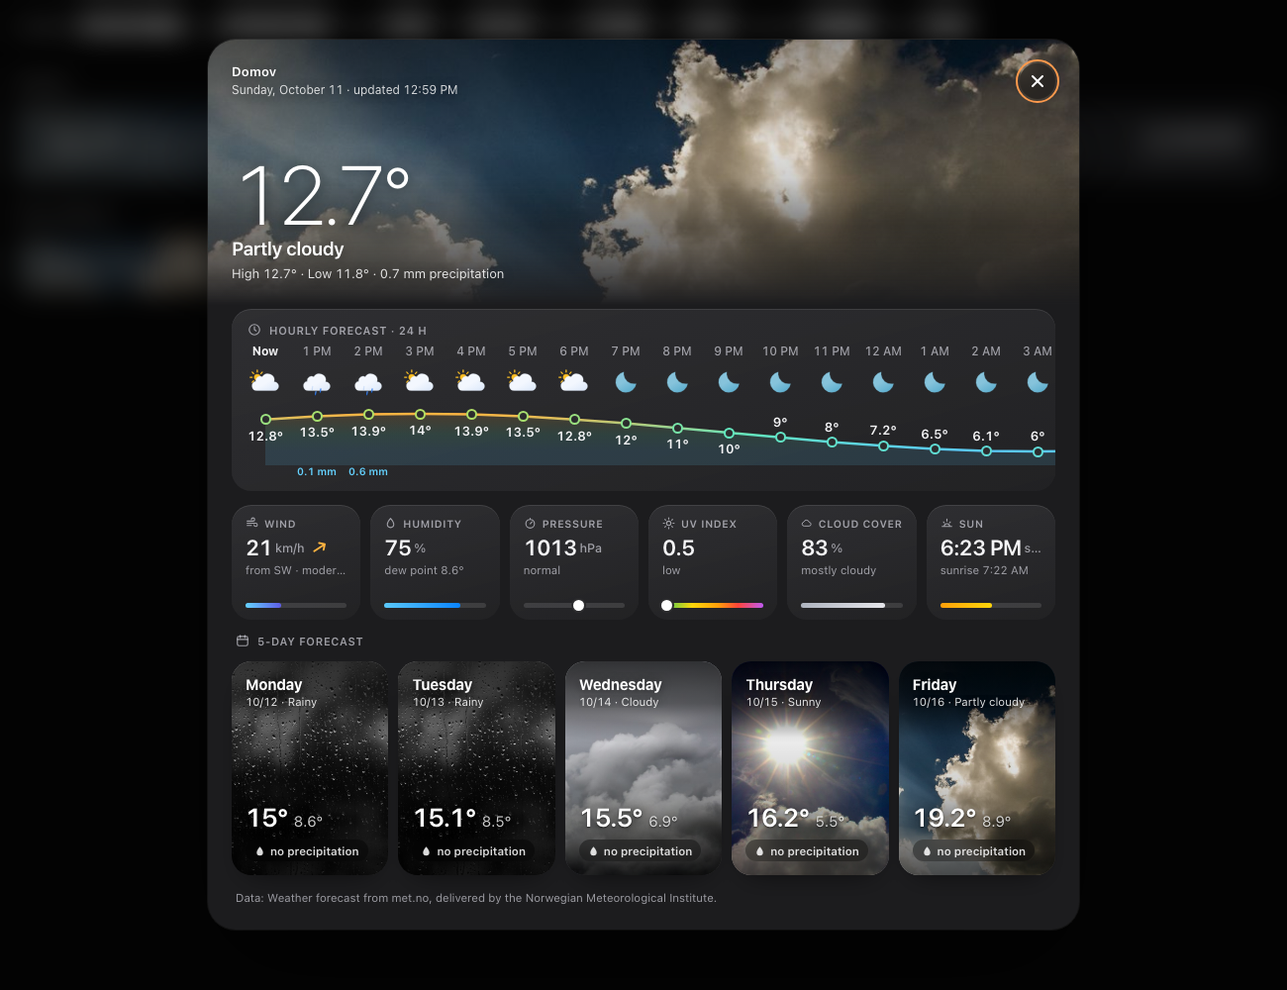
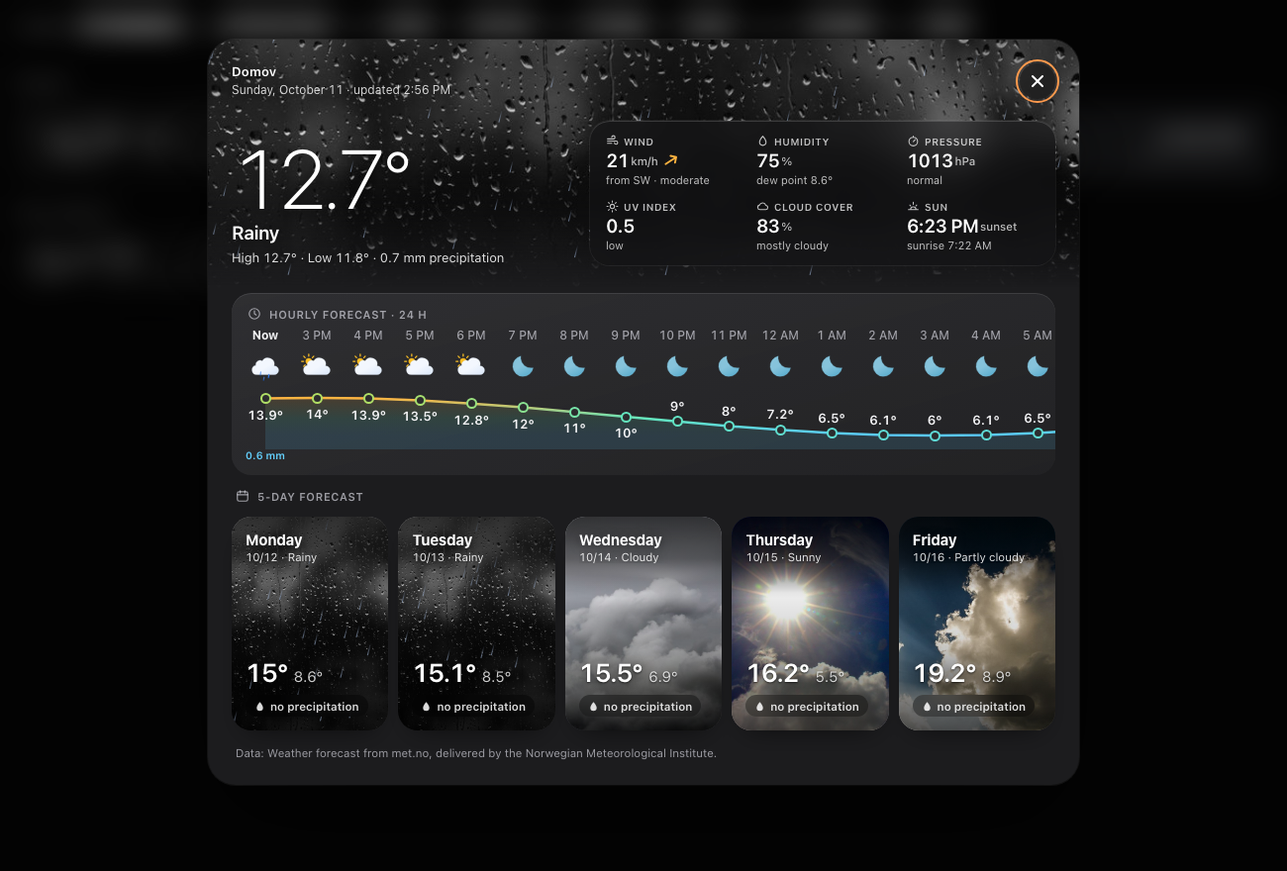
Detail: current details in the hero, weather effects in the dialog
- Desktop/tablet: wind, humidity, pressure, UV, cloud cover and sun move
  into the hero as a frosted 3x2 box next to the temperature; the hero is
  lower, so the hourly forecast sits higher and the days follow it.
- Phone: the details box comes right after the hero, above the hourly forecast.
- Rain / snow / lightning animation in the hero and in each forecast day
  (per that day's condition), honouring the `effects` option.
- The dialog skips re-rendering identical content, so HA state pushes no
  longer restart the animations.
- Light theme: photo mask stays solid longer so the hero text stays readable.
- Drop the small bars under the detail values (no room in the compact box).

diff --git a/dist/weather-bar-card.js b/dist/weather-bar-card.js
@@ -10,7 +10,7 @@
  * https://github.com/eMalinos/weather-bar-card
  */
 
-const VERSION = '1.1.1';
+const VERSION = '1.2.0';
 
 // Folder of this module, e.g. /hacsfiles/weather-bar-card/ — photos and icons sit next to it.
 const ASSET_BASE = new URL('./', import.meta.url).href;
@@ -155,9 +155,9 @@ export function buildDays(forecast, count, now = new Date(), fromUnit = '°C', t
   return { today, days };
 }
 
-// Deterministic particles so re-renders don't jump.
-export function particles(fx, compact) {
-  let s = 11;
+// Deterministic particles so re-renders don't jump; `seed` varies the pattern between neighbours.
+export function particles(fx, compact, seed = 11) {
+  let s = seed;
   const r = () => (s = (s * 9301 + 49297) % 233280) / 233280;
   const out = [];
   const scale = compact ? 0.5 : 1;
@@ -172,6 +172,21 @@ export function particles(fx, compact) {
   if (fx.flash) out.push('<i class="flash"></i>');
   return out.join('');
 }
+
+// Rain / snow / lightning layer, shared by the bar and the detail dialog.
+// --fx-fall = how far particles fall; set it to the height of the box they cover.
+const FX_STYLE = `
+.fx { position: absolute; inset: 0; pointer-events: none; overflow: hidden; }
+.drop { position: absolute; top: -26px; width: 1.2px; height: 13px; border-radius: 1px;
+  background: linear-gradient(rgba(190,215,255,0), rgba(190,215,255,.55)); animation: wb-rain linear infinite; }
+.drop.heavy { width: 1.6px; height: 18px; background: linear-gradient(rgba(190,215,255,0), rgba(190,215,255,.75)); }
+.flake { position: absolute; top: -12px; border-radius: 50%; background: rgba(255,255,255,.9); animation: wb-snow linear infinite; }
+.flash { position: absolute; inset: 0; background: #fff; opacity: 0; animation: wb-flash 6s ease-in-out infinite; }
+@keyframes wb-rain { from { transform: translate3d(0,0,0) rotate(14deg); } to { transform: translate3d(-34px,var(--fx-fall,240px),0) rotate(14deg); } }
+@keyframes wb-snow { 0% { transform: translate3d(0,-10px,0); } 50% { transform: translate3d(10px,calc(var(--fx-fall,240px) * .375),0); } 100% { transform: translate3d(-6px,calc(var(--fx-fall,240px) * .875),0); } }
+@keyframes wb-flash { 0%,88%,100% { opacity: 0; } 89% { opacity: .38; } 90.5% { opacity: .04; } 92% { opacity: .28; } 95% { opacity: 0; } }
+@media (prefers-reduced-motion: reduce) { .drop, .flake, .flash { animation: none; } .flash { display: none; } }
+`;
 
 // ---------------------------------------------------------------------------
 // Detail dialog (click on the bar): hero photo, 24 h hourly curve, current
@@ -285,7 +300,9 @@ const DETAIL_STYLE = `
   background: rgba(0,0,0,.32); backdrop-filter: blur(12px); -webkit-backdrop-filter: blur(12px); display: flex; align-items: center; justify-content: center; }
 .close:hover { background: rgba(0,0,0,.5); }
 .close:focus-visible { outline: 2px solid #FF9A4D; outline-offset: 2px; }
-.big { margin-top: auto; display: flex; flex-direction: column; gap: 6px; min-width: 0; }
+.low { margin-top: auto; display: flex; align-items: flex-end; justify-content: space-between; gap: 24px; }
+.big { display: flex; flex-direction: column; gap: 6px; min-width: 0; }
+.hero .fx { --fx-fall: var(--d-hero-h); }
 .bt { font-size: var(--d-temp); font-weight: 200; line-height: .9; letter-spacing: -.045em; }
 .bl { font-size: 19px; font-weight: 600; letter-spacing: -.01em; }
 .bs { font-size: 13px; color: rgba(255,255,255,.86); }
@@ -308,23 +325,18 @@ const DETAIL_STYLE = `
 .v { position: absolute; left: 0; right: 0; text-align: center; font-size: 13px; font-weight: 600; }
 .r { height: 16px; font-size: 10.5px; font-weight: 600; color: var(--d-blue); white-space: nowrap; }
 
-.tiles { display: grid; grid-template-columns: repeat(var(--d-tiles), minmax(0, 1fr)); gap: 10px; }
-.tile { min-width: 0; height: 116px; padding: 12px 14px; display: flex; flex-direction: column; gap: 3px; }
-.tl { display: flex; align-items: center; gap: 6px; font-size: 10.5px; font-weight: 600; letter-spacing: .06em; text-transform: uppercase; color: var(--d-fg2); white-space: nowrap; }
-.tv { display: flex; align-items: center; gap: 6px; margin-top: 2px; font-size: 22px; font-weight: 600; letter-spacing: -.02em; white-space: nowrap; overflow: hidden; }
-.tv small { min-width: 0; overflow: hidden; text-overflow: ellipsis; font-size: 12.5px; font-weight: 500; color: var(--d-fg2); margin-left: -3px; letter-spacing: 0; }
+/* Current details: one 3-column box; on desktop it sits in the hero as frosted glass next to the temperature. */
+.tiles { display: grid; grid-template-columns: repeat(var(--d-tiles), minmax(0, 1fr)); row-gap: 14px; column-gap: 10px; padding: 14px;
+  border-radius: 20px; background: var(--d-tile); box-shadow: var(--d-tile-sh); }
+.hero .tiles { flex: 0 1 470px; min-width: 0; column-gap: 18px; padding: 14px 16px; color: #fff; text-shadow: none; --d-fg2: rgba(255,255,255,.74);
+  background: rgba(20,20,24,.34); backdrop-filter: blur(16px) saturate(1.3); -webkit-backdrop-filter: blur(16px) saturate(1.3);
+  box-shadow: inset 0 1px 0 rgba(255,255,255,.16), 0 0 0 1px rgba(255,255,255,.06); }
+.tile { min-width: 0; display: flex; flex-direction: column; gap: 2px; }
+.tl { display: flex; align-items: center; gap: 5px; font-size: 10px; font-weight: 600; letter-spacing: .05em; text-transform: uppercase; color: var(--d-fg2); white-space: nowrap; }
+.tv { display: flex; align-items: center; gap: 4px; font-size: 19px; font-weight: 600; letter-spacing: -.02em; white-space: nowrap; overflow: hidden; }
+.tv small { min-width: 0; overflow: hidden; text-overflow: ellipsis; font-size: 11.5px; font-weight: 500; color: var(--d-fg2); margin-left: -2px; letter-spacing: 0; }
 .tv svg { flex: none; }
-.ts { font-size: 11.5px; color: var(--d-fg2); white-space: nowrap; overflow: hidden; text-overflow: ellipsis; }
-.tb { margin-top: auto; position: relative; height: 5px; border-radius: 3px; background: var(--d-track); }
-.tb i { display: block; height: 100%; border-radius: 3px; }
-.tb b { position: absolute; top: -3px; width: 11px; height: 11px; margin-left: -5.5px; border-radius: 6px; background: var(--d-marker); box-shadow: 0 0 0 2px var(--d-tile-solid); }
-.sheet .tiles { grid-template-columns: repeat(3, minmax(0, 1fr)); row-gap: 14px; column-gap: 10px; padding: 14px; border-radius: 20px; background: var(--d-tile); box-shadow: var(--d-tile-sh); }
-.sheet .tile { height: auto; padding: 0; gap: 2px; background: none; box-shadow: none; }
-.sheet .tl { font-size: 10px; letter-spacing: .05em; gap: 5px; }
-.sheet .tv { font-size: 19px; gap: 4px; margin: 0; }
-.sheet .tv small { font-size: 11.5px; margin-left: -2px; }
-.sheet .ts { font-size: 11px; }
-.sheet .tb { display: none; }
+.ts { font-size: 11px; color: var(--d-fg2); white-space: nowrap; overflow: hidden; text-overflow: ellipsis; }
 
 .dhead { padding: 0 4px; }
 .days { display: grid; grid-template-columns: repeat(var(--d-days), minmax(0, 1fr)); gap: 10px; }
@@ -353,26 +365,28 @@ const DETAIL_STYLE = `
 .sheet .dt span { font-size: 14px; }
 
 .foot { font-size: 11.5px; color: var(--d-fg2); padding: 2px 4px; overflow: hidden; text-overflow: ellipsis; white-space: nowrap; }
-`;
+.dc .fx { --fx-fall: 230px; }
+.sheet .dc .fx { --fx-fall: 90px; }
+${FX_STYLE}`;
 
 const DROP = '<svg width="11" height="11" viewBox="0 0 24 24" fill="currentColor" aria-hidden="true"><path d="M12 2.5s7 7.6 7 12.7a7 7 0 0 1-14 0C5 10.1 12 2.5 12 2.5z"/></svg>';
 
 const DETAIL_THEME = {
   dark: {
     '--d-surface': '#1C1C1E', '--d-fg': '#F5F5F7', '--d-fg2': 'rgba(235,235,245,.62)', '--d-tile': 'linear-gradient(165deg, rgba(62,62,66,.55), rgba(36,36,38,.7))',
-    '--d-tile-solid': '#2C2C2E', '--d-tile-sh': 'inset 0 1px 0 rgba(255,255,255,.1)', '--d-track': 'rgba(255,255,255,.12)', '--d-dot': '#2C2C2E',
-    '--d-blue': '#64D2FF', '--d-marker': '#FFFFFF', '--d-day-sh': '0 12px 28px -16px rgba(0,0,0,.7)',
+    '--d-tile-sh': 'inset 0 1px 0 rgba(255,255,255,.1)', '--d-dot': '#2C2C2E',
+    '--d-blue': '#64D2FF', '--d-day-sh': '0 12px 28px -16px rgba(0,0,0,.7)',
     '--d-scrim': 'rgba(0,0,0,.55)', '--d-ring': 'rgba(255,255,255,.08)', '--d-mask': 'linear-gradient(180deg, #000 0%, #000 52%, rgba(0,0,0,.5) 78%, transparent 100%)',
     '--d-hero-scrim': 'linear-gradient(180deg, rgba(0,0,0,.42) 0%, rgba(0,0,0,.12) 40%, rgba(0,0,0,.28) 70%, transparent 100%)',
   },
   light: {
     '--d-surface': '#F2F2F7', '--d-fg': '#1C1C1E', '--d-fg2': 'rgba(60,60,67,.7)', '--d-tile': '#FFFFFF',
-    '--d-tile-solid': '#FFFFFF', '--d-tile-sh': '0 1px 2px rgba(0,0,0,.04), 0 8px 24px -14px rgba(0,0,0,.18)', '--d-track': 'rgba(0,0,0,.08)', '--d-dot': '#FFFFFF',
-    '--d-blue': '#0062CC', '--d-marker': '#1C1C1E', '--d-day-sh': '0 10px 24px -16px rgba(0,0,0,.4)',
+    '--d-tile-sh': '0 1px 2px rgba(0,0,0,.04), 0 8px 24px -14px rgba(0,0,0,.18)', '--d-dot': '#FFFFFF',
+    '--d-blue': '#0062CC', '--d-day-sh': '0 10px 24px -16px rgba(0,0,0,.4)',
     '--d-scrim': 'rgba(30,30,35,.32)', '--d-ring': 'rgba(0,0,0,.06)',
     // Light surface: photo stays solid under the white text and fades out in small steps below it.
-    '--d-mask': 'linear-gradient(180deg, #000 0%, #000 60%, rgba(0,0,0,.92) 66%, rgba(0,0,0,.78) 72%, rgba(0,0,0,.58) 78%, rgba(0,0,0,.38) 84%, rgba(0,0,0,.2) 90%, rgba(0,0,0,.07) 96%, transparent 100%)',
-    '--d-hero-scrim': 'linear-gradient(180deg, rgba(0,0,0,.42) 0%, rgba(0,0,0,.12) 32%, rgba(0,0,0,.2) 50%, rgba(0,0,0,.12) 62%, rgba(0,0,0,.04) 74%, transparent 84%)',
+    '--d-mask': 'linear-gradient(180deg, #000 0%, #000 78%, rgba(0,0,0,.9) 82%, rgba(0,0,0,.72) 86%, rgba(0,0,0,.5) 90%, rgba(0,0,0,.28) 94%, rgba(0,0,0,.1) 97.5%, transparent 100%)',
+    '--d-hero-scrim': 'linear-gradient(180deg, rgba(0,0,0,.42) 0%, rgba(0,0,0,.12) 32%, rgba(0,0,0,.22) 55%, rgba(0,0,0,.2) 72%, rgba(0,0,0,.06) 86%, transparent 94%)',
   },
 };
 
@@ -389,16 +403,7 @@ ha-card { position: relative; overflow: hidden; border: none; color: var(--wb-fg
   opacity: 0; transition: opacity 1.1s cubic-bezier(.4,0,.2,1); }
 .photo::after { content: ""; position: absolute; inset: 0; background: linear-gradient(90deg, rgba(0,0,0,.38), rgba(0,0,0,.18)); }
 .photo.on { opacity: 1; }
-.fx { position: absolute; inset: 0; pointer-events: none; overflow: hidden; }
-.drop { position: absolute; top: -26px; width: 1.2px; height: 13px; border-radius: 1px;
-  background: linear-gradient(rgba(190,215,255,0), rgba(190,215,255,.55)); animation: wb-rain linear infinite; }
-.drop.heavy { width: 1.6px; height: 18px; background: linear-gradient(rgba(190,215,255,0), rgba(190,215,255,.75)); }
-.flake { position: absolute; top: -12px; border-radius: 50%; background: rgba(255,255,255,.9); animation: wb-snow linear infinite; }
-.flash { position: absolute; inset: 0; background: #fff; opacity: 0; animation: wb-flash 6s ease-in-out infinite; }
-@keyframes wb-rain { from { transform: translate3d(0,0,0) rotate(14deg); } to { transform: translate3d(-34px,240px,0) rotate(14deg); } }
-@keyframes wb-snow { 0% { transform: translate3d(0,-10px,0); } 50% { transform: translate3d(10px,90px,0); } 100% { transform: translate3d(-6px,210px,0); } }
-@keyframes wb-flash { 0%,88%,100% { opacity: 0; } 89% { opacity: .38; } 90.5% { opacity: .04; } 92% { opacity: .28; } 95% { opacity: 0; } }
-@media (prefers-reduced-motion: reduce) { .drop, .flake, .flash { animation: none; } .flash { display: none; } }
+${FX_STYLE}
 
 .row { position: relative; z-index: 1; display: flex; align-items: center; box-sizing: border-box; height: 76px; padding: 0 var(--wb-pad); }
 .now { flex: none; display: flex; align-items: center; gap: 12px; width: var(--wb-now-w); padding-right: 48px; box-sizing: border-box;
@@ -770,6 +775,7 @@ class WeatherBarCard extends (globalThis.HTMLElement ?? class {}) {
     window.addEventListener('keydown', this._onKey);
     window.addEventListener('resize', this._onWinResize);
     this._dlg = host;
+    this._dlgKey = undefined;
     document.body.appendChild(host);
     this._subscribeHourly();
     this._renderDetail();
@@ -829,38 +835,16 @@ class WeatherBarCard extends (globalThis.HTMLElement ?? class {}) {
     const iconPath = cfg.icon_path ?? imgBase;
     const photo = (k) => `background-image:url(&quot;${esc(cfg.images?.[k] ?? `${imgBase}${k}.jpg`)}&quot;);background-position:${FOCUS[k] ?? '50% 50%'}`;
     const punit = esc(a.precipitation_unit ?? 'mm');
-    const clamp = (v) => Math.max(0, Math.min(100, v)).toFixed(1);
 
     const vars = {
       ...DETAIL_THEME[dark ? 'dark' : 'light'],
       '--d-pad': sheet ? '16px' : '24px', '--d-temp': sheet ? '64px' : '84px',
-      '--d-hero-h': dark ? (sheet ? '232px' : '268px') : (sheet ? '290px' : '340px'),
-      '--d-hero-pb': dark ? (sheet ? '16px' : '24px') : (sheet ? '98px' : '122px'),
+      '--d-hero-h': dark ? (sheet ? '232px' : '252px') : (sheet ? '290px' : '300px'),
+      '--d-hero-pb': dark ? (sheet ? '16px' : '24px') : (sheet ? '98px' : '70px'),
     };
+    const fx = (condition, seed, compact) => (cfg.effects ? `<div class="fx">${particles(FX_FOR[condition] ?? {}, compact, seed)}</div>` : '');
 
-    // Hero
     const { today, days } = buildDays(this._forecast, 5, now, fromUnit, unit);
-    const temp = convertTemp(a.temperature, fromUnit, unit);
-    const heroSub = [];
-    if (today) {
-      heroSub.push(`${T.max} ${deg(convertTemp(today.temperature, fromUnit, unit))}`);
-      if (typeof today.templow === 'number') heroSub.push(`${T.min} ${deg(convertTemp(today.templow, fromUnit, unit))}`);
-      if (today.precipitation > 0) heroSub.push(`${nf.format(today.precipitation)} ${punit} ${T.precipToday}`);
-    }
-    const updated = new Date(st.last_updated ?? now);
-    const hero = `
-      <div class="hero"><div class="ph" style="${photo(photoKey(st.state, sun?.state))}"></div><div class="sc"></div>
-        <div class="in">
-          <div class="top">
-            <div><div class="loc">${esc(cfg.name ?? a.friendly_name ?? cfg.entity)}</div>
-              <div class="upd">${esc(cap(new Intl.DateTimeFormat(lang, { weekday: 'long', day: 'numeric', month: 'long' }).format(now)))} · ${T.updated} ${timeFmt.format(updated)}</div></div>
-            <button class="close" aria-label="${T.close}"><svg width="14" height="14" viewBox="0 0 14 14" aria-hidden="true"><path d="M2 2l10 10M12 2L2 12" stroke="currentColor" stroke-width="2" stroke-linecap="round"/></svg></button>
-          </div>
-          <div class="big"><div class="bt">${typeof temp === 'number' ? deg(temp) : '–'}</div>
-            <div class="bl">${esc(this._condText(st.state))}</div><div class="bs">${heroSub.join(' · ')}</div></div>
-        </div>
-      </div>`;
-
     // Hourly
     const H = buildHours(this._hourly, 24, now, fromUnit, unit);
     const hourly = !H.hours.length ? '' : `
@@ -881,8 +865,6 @@ class WeatherBarCard extends (globalThis.HTMLElement ?? class {}) {
       </section>`;
 
     // Current details
-    const bar = (pct, bg) => `<span class="tb"><i style="width:${clamp(pct)}%;background:${bg}"></i></span>`;
-    const mark = (pct, track) => `<span class="tb"${track ? ` style="background:${track}"` : ''}><b style="left:${clamp(pct)}%"></b></span>`;
     const tiles = [];
     if (typeof a.wind_speed === 'number') {
       const kmh = toKmh(a.wind_speed, a.wind_speed_unit);
@@ -890,38 +872,58 @@ class WeatherBarCard extends (globalThis.HTMLElement ?? class {}) {
       const arrow = typeof a.wind_bearing === 'number'
         ? `<svg width="18" height="18" viewBox="0 0 24 24" aria-hidden="true"><g transform="rotate(${a.wind_bearing} 12 12)"><path d="M12 3v17M6.5 14.5L12 20l5.5-5.5" fill="none" stroke="#FFB340" stroke-width="2.5" stroke-linecap="round" stroke-linejoin="round"/></g></svg>` : '';
       tiles.push(['wind', T.wind, `${nf.format(Math.round(a.wind_speed))}<small>${esc(a.wind_speed_unit ?? '')}</small>${arrow}`,
-        [dir && `${T.from} ${dir}`, T.windLv[level(kmh, [2, 12, 29, 50, 75])]].filter(Boolean).join(' · '), bar(kmh / 60 * 100, 'linear-gradient(90deg,#64D2FF,#5E5CE6)')]);
+        [dir && `${T.from} ${dir}`, T.windLv[level(kmh, [2, 12, 29, 50, 75])]].filter(Boolean).join(' · ')]);
     }
     if (typeof a.humidity === 'number') {
       tiles.push(['humidity', T.humidity, `${nf.format(Math.round(a.humidity))}<small>%</small>`,
-        typeof a.dew_point === 'number' ? `${T.dew} ${deg(convertTemp(a.dew_point, fromUnit, unit))}` : '', bar(a.humidity, 'linear-gradient(90deg,#5AC8FA,#0A84FF)')]);
+        typeof a.dew_point === 'number' ? `${T.dew} ${deg(convertTemp(a.dew_point, fromUnit, unit))}` : '']);
     }
     if (typeof a.pressure === 'number') {
       const hpa = toHpa(a.pressure, a.pressure_unit);
       tiles.push(['pressure', T.pressure, `${new Intl.NumberFormat(lang, { maximumFractionDigits: 2, useGrouping: false }).format(a.pressure_unit === 'hPa' || !a.pressure_unit ? Math.round(a.pressure) : a.pressure)}<small>${esc(a.pressure_unit ?? 'hPa')}</small>`,
-        T.pressLv[level(hpa, [1000, 1025])], mark((hpa - 970) / 80 * 100)]);
+        T.pressLv[level(hpa, [1000, 1025])]]);
     }
     if (typeof a.uv_index === 'number') {
       tiles.push(['uv', T.uv, nf.format(a.uv_index),
-        [T.uvLv[level(a.uv_index, [3, 6, 8, 11])], typeof today?.uv_index === 'number' && `${T.uvMax} ${nf.format(today.uv_index)}`].filter(Boolean).join(' · '),
-        mark(a.uv_index / 11 * 100, 'linear-gradient(90deg,#34C759,#FFD60A 30%,#FF9F0A 55%,#FF453A 75%,#BF5AF2)')]);
+        [T.uvLv[level(a.uv_index, [3, 6, 8, 11])], typeof today?.uv_index === 'number' && `${T.uvMax} ${nf.format(today.uv_index)}`].filter(Boolean).join(' · ')]);
     }
     if (typeof a.cloud_coverage === 'number') {
       tiles.push(['cloud', T.cloud, `${nf.format(Math.round(a.cloud_coverage))}<small>%</small>`,
-        T.cloudLv[level(a.cloud_coverage, [13, 38, 63, 88])], bar(a.cloud_coverage, 'linear-gradient(90deg,#AEB4BF,#E5E5EA)')]);
+        T.cloudLv[level(a.cloud_coverage, [13, 38, 63, 88])]]);
     }
     if (sa.next_rising && sa.next_setting) {
       const rise = new Date(sa.next_rising), set = new Date(sa.next_setting);
       const up = sun.state === 'above_horizon';
-      const dayStart = rise.getTime() - 864e5; // today's sunrise ≈ tomorrow's minus a day
       tiles.push(['sun', T.sun, `${timeFmt.format(up ? set : rise)}<small>${up ? T.sunset : T.sunrise}</small>`,
-        `${up ? T.sunrise : T.sunset} ${timeFmt.format(up ? rise : set)}`,
-        bar(up ? (now - dayStart) / (set - dayStart) * 100 : 0, 'linear-gradient(90deg,#FF9F0A,#FFD60A)')]);
+        `${up ? T.sunrise : T.sunset} ${timeFmt.format(up ? rise : set)}`]);
     }
-    vars['--d-tiles'] = String(Math.max(1, tiles.length));
-    const tilesHtml = !tiles.length ? '' : `<div class="tiles">${tiles.map(([k, label, value, sub, viz]) => `
-      <section class="tile box"><div class="tl"><svg width="13" height="13" viewBox="0 0 24 24" fill="none" stroke="currentColor" stroke-width="2" stroke-linecap="round" stroke-linejoin="round" aria-hidden="true"><path d="${TILE_ICON[k]}"/></svg>${label}</div>
-        <div class="tv">${value}</div><div class="ts">${sub}</div>${viz}</section>`).join('')}</div>`;
+    vars['--d-tiles'] = String(Math.max(1, Math.min(3, tiles.length)));
+    const tilesHtml = !tiles.length ? '' : `<div class="tiles">${tiles.map(([k, label, value, sub]) => `
+      <section class="tile"><div class="tl"><svg width="13" height="13" viewBox="0 0 24 24" fill="none" stroke="currentColor" stroke-width="2" stroke-linecap="round" stroke-linejoin="round" aria-hidden="true"><path d="${TILE_ICON[k]}"/></svg>${label}</div>
+        <div class="tv">${value}</div><div class="ts">${sub}</div></section>`).join('')}</div>`;
+
+    // Hero: temperature left, current details beside it (desktop)
+    const temp = convertTemp(a.temperature, fromUnit, unit);
+    const heroSub = [];
+    if (today) {
+      heroSub.push(`${T.max} ${deg(convertTemp(today.temperature, fromUnit, unit))}`);
+      if (typeof today.templow === 'number') heroSub.push(`${T.min} ${deg(convertTemp(today.templow, fromUnit, unit))}`);
+      if (today.precipitation > 0) heroSub.push(`${nf.format(today.precipitation)} ${punit} ${T.precipToday}`);
+    }
+    const updated = new Date(st.last_updated ?? now);
+    const hero = `
+      <div class="hero"><div class="ph" style="${photo(photoKey(st.state, sun?.state))}"></div><div class="sc"></div>${fx(st.state, 11, sheet)}
+        <div class="in">
+          <div class="top">
+            <div><div class="loc">${esc(cfg.name ?? a.friendly_name ?? cfg.entity)}</div>
+              <div class="upd">${esc(cap(new Intl.DateTimeFormat(lang, { weekday: 'long', day: 'numeric', month: 'long' }).format(now)))} · ${T.updated} ${timeFmt.format(updated)}</div></div>
+            <button class="close" aria-label="${T.close}"><svg width="14" height="14" viewBox="0 0 14 14" aria-hidden="true"><path d="M2 2l10 10M12 2L2 12" stroke="currentColor" stroke-width="2" stroke-linecap="round"/></svg></button>
+          </div>
+          <div class="low"><div class="big"><div class="bt">${typeof temp === 'number' ? deg(temp) : '–'}</div>
+            <div class="bl">${esc(this._condText(st.state))}</div><div class="bs">${heroSub.join(' · ')}</div></div>
+            ${sheet ? '' : tilesHtml}</div>
+        </div>
+      </div>`;
 
     // Forecast days on condition photos
     vars['--d-days'] = String(Math.max(1, days.length));
@@ -929,12 +931,12 @@ class WeatherBarCard extends (globalThis.HTMLElement ?? class {}) {
     const dateFmt = new Intl.DateTimeFormat(lang, { day: 'numeric', month: 'numeric' });
     const daysHtml = !days.length ? '' : `
       <div class="head dhead"><svg width="14" height="14" viewBox="0 0 24 24" fill="none" stroke="currentColor" stroke-width="2" stroke-linecap="round" aria-hidden="true"><rect x="3" y="5" width="18" height="16" rx="3"/><path d="M3 10h18M8 3v4M16 3v4"/></svg>${T.days.replace('{n}', days.length)}</div>
-      <div class="days">${days.map((d) => {
+      <div class="days">${days.map((d, i) => {
         const wet = d.precipitation > 0;
         const head = `<div class="hd"><div class="dn">${esc(cap(dayFmt.format(d.date)))}</div><div class="dd">${esc(dateFmt.format(d.date))} · ${esc(this._condText(d.condition))}</div></div>`;
         const temps = `<div class="dt"><b>${deg(d.hi)}</b>${d.lo === null ? '' : `<span>${deg(d.lo)}</span>`}</div>`;
         const pill = `<div class="pill${wet ? ' wet' : ''}">${DROP}${wet ? `${nf.format(d.precipitation)} ${punit}` : T.noPrecip}</div>`;
-        return `<div class="dc"><div class="ph" style="${photo(photoKey(d.condition, 'above_horizon'))}"></div><div class="sc"></div>
+        return `<div class="dc"><div class="ph" style="${photo(photoKey(d.condition, 'above_horizon'))}"></div><div class="sc"></div>${fx(d.condition, 23 + i * 17, true)}
           <div class="in">${head}${sheet ? pill + temps : temps + pill}</div></div>`;
       }).join('')}</div>`;
 
@@ -946,15 +948,20 @@ class WeatherBarCard extends (globalThis.HTMLElement ?? class {}) {
     }
     const wrap = root.querySelector('.wrap');
     const modal = root.querySelector('.modal');
+    const style = Object.entries(vars).map(([k, v]) => `${k}:${v}`).join(';');
+    const html = `${sheet ? '<div class="grab"><i></i></div>' : ''}${hero}
+      <div class="body">${sheet ? tilesHtml : ''}${hourly}${daysHtml}
+        ${a.attribution ? `<div class="foot">${T.data}: ${esc(a.attribution)}</div>` : ''}
+      </div>`;
+    // HA pushes hass on every state change anywhere; rewriting identical content would restart the rain / snow animations.
+    if (html + style === this._dlgKey) return;
+    this._dlgKey = html + style;
     const prev = { left: root.querySelector('.scroll')?.scrollLeft, focus: root.activeElement?.className };
     this._dlgSheet = sheet;
     wrap.classList.toggle('sheet', sheet);
-    wrap.setAttribute('style', Object.entries(vars).map(([k, v]) => `${k}:${v}`).join(';'));
+    wrap.setAttribute('style', style);
     modal.setAttribute('aria-label', this._condText(st.state));
-    modal.innerHTML = `${sheet ? '<div class="grab"><i></i></div>' : ''}${hero}
-      <div class="body">${hourly}${tilesHtml}${daysHtml}
-        ${a.attribution ? `<div class="foot">${T.data}: ${esc(a.attribution)}</div>` : ''}
-      </div>`;
+    modal.innerHTML = html;
     if (prev.left && root.querySelector('.scroll')) root.querySelector('.scroll').scrollLeft = prev.left;
     if (prev.focus) root.querySelector(`.${prev.focus.split(' ')[0]}`)?.focus({ preventScroll: true });
   }

diff --git a/README.md b/README.md
@@ -16,7 +16,7 @@ A full-width weather bar for the top of a Home Assistant dashboard. On the left 
 ## Features
 
 - **Photo of the current weather**: 12 photos (day/night variants) with a soft fade into the bar.
-- **Optional effects**: animated rain, snow and lightning.
+- **Optional effects**: animated rain, snow and lightning in the bar, the detail and each forecast day.
 - **Forecast**: animated [Meteocons](https://github.com/basmilius/weather-icons) icons, the full weekday name and day/night temperature (e.g. `15 °C / 8.6 °C`). The number of days adapts to the card width.
 - **Readable on any theme**: on a light dashboard, forecast days that lie on the photo switch to light text.
 - **Compact mode**: below `compact_width` (phones) the card collapses into a small pill with temperature, condition and clock.
@@ -52,7 +52,7 @@ Once the card is accepted into the HACS default store, steps 1–2 won't be need
 1. Download the `dist/` folder from the [latest release](https://github.com/eMalinos/weather-bar-card/releases).
 2. Copy **all** of its files to `/config/www/weather-bar-card/`. The photos and icons must be next to `weather-bar-card.js`.
 3. Settings → Dashboards → ⋮ → **Resources** → **Add resource**:
-   - URL: `/local/weather-bar-card/weather-bar-card.js?v=1.1.1`
+   - URL: `/local/weather-bar-card/weather-bar-card.js?v=1.2.0`
    - Type: **JavaScript module**
 4. Hard-reload the browser. In the companion app use Settings → Companion app → Debugging → Reset frontend cache.
 
